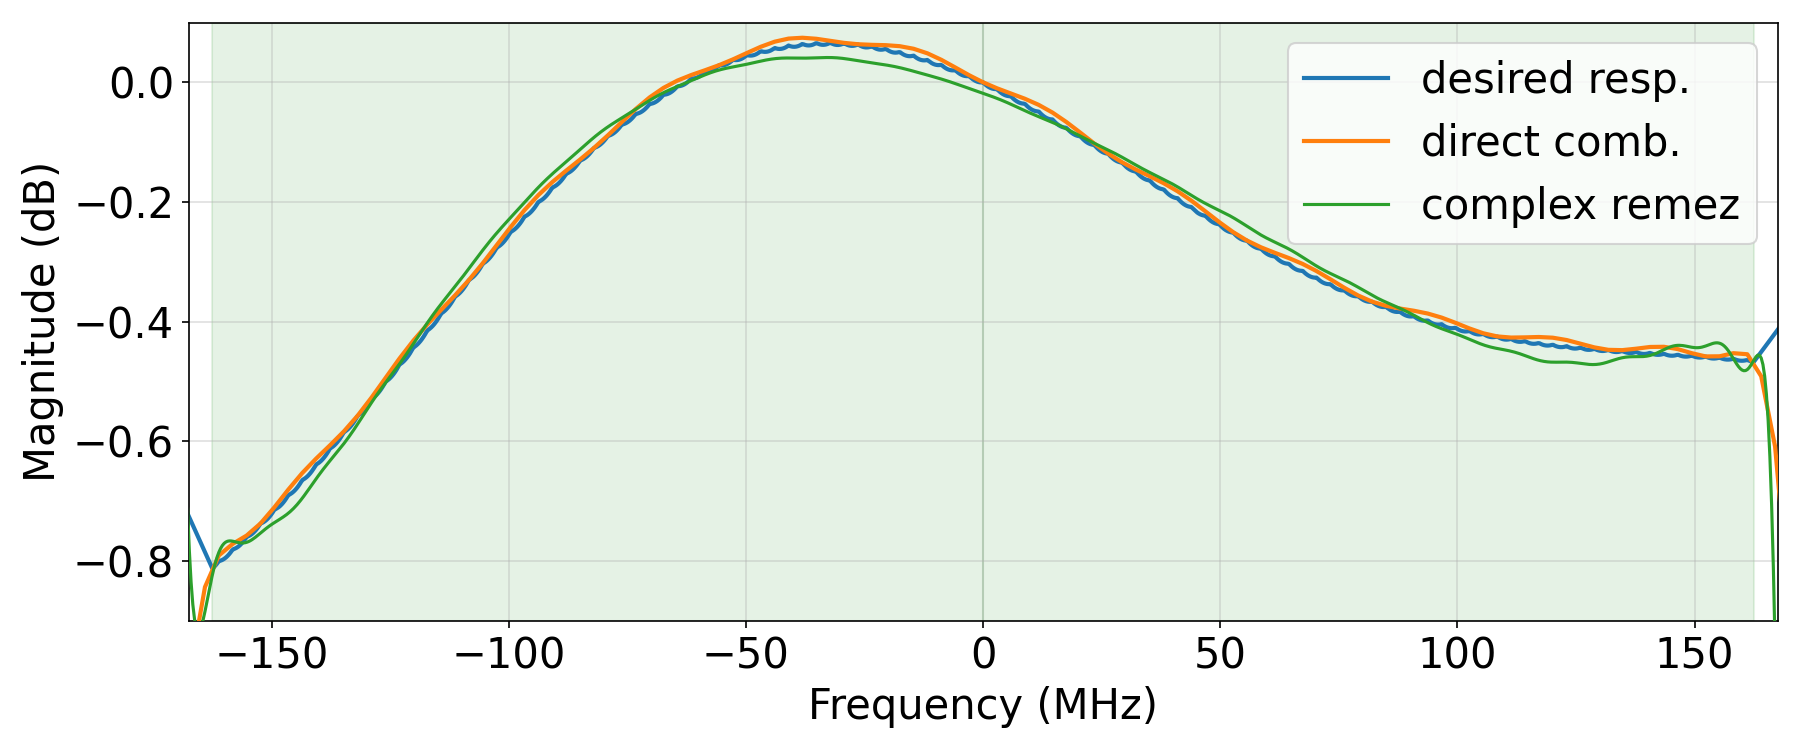
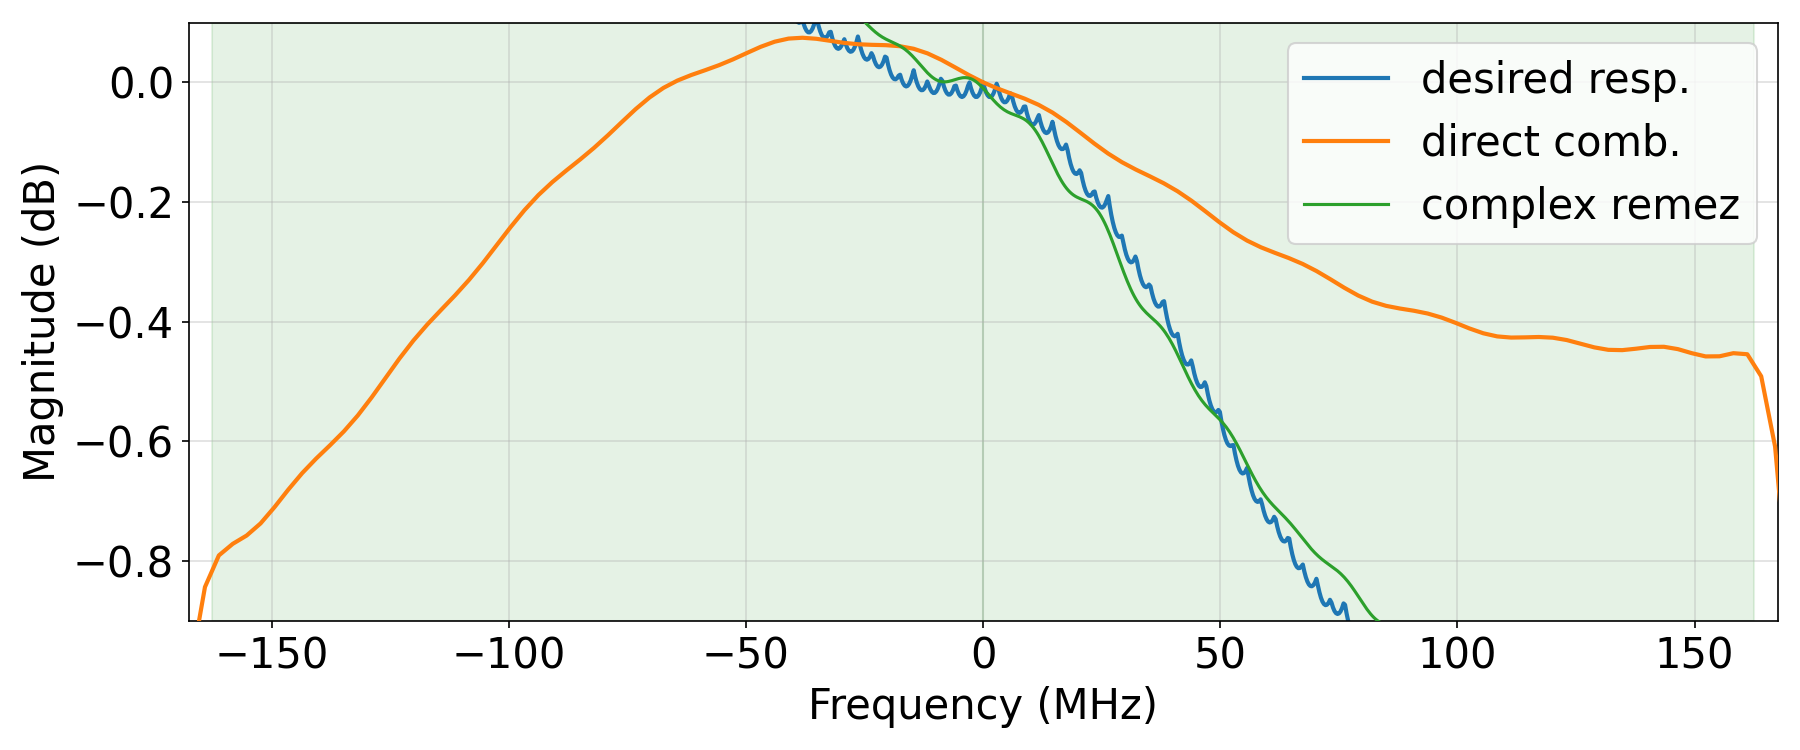
Train TRx meas. result by complex Remez algo.

diff --git a/trx_board_meas/plot.py b/trx_board_meas/plot.py
@@ -5,7 +5,7 @@ import plotly.express as px
 import plotly.graph_objs as go
 from plotly.subplots import make_subplots
 
-from s2p import _DATA_DIR, _FIGURE_DIR, _load_decimated
+from s2p import _DATA_DIR, _FIGURE_DIR, _FREQ_RESP_DIR, _load_decimated, load_freq_resp, save_freq_resp
 
 _COLORS = px.colors.qualitative.Plotly
 
@@ -19,7 +19,8 @@ def _plot(files: list, out_name: str):
     _FIGURE_DIR.mkdir(exist_ok=True)
 
     fig = make_subplots(
-        rows=2, cols=1,
+        rows=2,
+        cols=1,
         vertical_spacing=0.08,
     )
 
@@ -29,19 +30,34 @@ def _plot(files: list, out_name: str):
         freq, gain, phase = _load_decimated(path)
 
         fig.add_trace(
-            go.Scatter(x=freq, y=gain, name=path.stem, legendgroup=group,
-                       line=dict(color=color)),
-            row=1, col=1,
+            go.Scatter(
+                x=freq,
+                y=gain,
+                name=path.stem,
+                legendgroup=group,
+                line=dict(color=color),
+            ),
+            row=1,
+            col=1,
         )
         fig.add_trace(
-            go.Scatter(x=freq, y=phase, name=path.stem, legendgroup=group,
-                       showlegend=False, line=dict(color=color)),
-            row=2, col=1,
+            go.Scatter(
+                x=freq,
+                y=phase,
+                name=path.stem,
+                legendgroup=group,
+                showlegend=False,
+                line=dict(color=color),
+            ),
+            row=2,
+            col=1,
         )
 
     for x_val in (9.65 - 0.325, 9.65 + 0.325):
         for row in (1, 2):
-            fig.add_vline(x=x_val, line=dict(dash="dash", color="gray", width=1), row=row, col=1)
+            fig.add_vline(
+                x=x_val, line=dict(dash="dash", color="gray", width=1), row=row, col=1
+            )
 
     fig.update_xaxes(title_text="Frequency (GHz)")
     fig.update_yaxes(title_text="Gain (dB)", row=1, col=1)
@@ -53,6 +69,55 @@ def _plot(files: list, out_name: str):
     )
 
     out = _FIGURE_DIR / out_name
+    fig.write_html(out)
+    print(f"saved → {out}")
+
+
+def plot_freq_resp(path=None, stem: str = None, out_name: str = None):
+    """Load a .npy frequency response file and plot magnitude (dB) and phase (deg).
+
+    Provide either a full `path` or a `stem` (looked up in _FREQ_RESP_DIR).
+    """
+    if path is None:
+        if stem is None:
+            raise ValueError("Provide either path or stem")
+        path = _FREQ_RESP_DIR / f"{stem}.npy"
+    path = Path(path)
+
+    freq, s_complex = load_freq_resp(path)
+    magnitude_db = 20 * np.log10(np.abs(s_complex))
+    phase_deg = np.rad2deg(np.unwrap(np.angle(s_complex)))
+
+    fig = make_subplots(rows=2, cols=1, vertical_spacing=0.08)
+    color = _COLORS[0]
+
+    fig.add_trace(
+        go.Scatter(x=freq, y=magnitude_db, name=path.stem, line=dict(color=color)),
+        row=1,
+        col=1,
+    )
+    fig.add_trace(
+        go.Scatter(
+            x=freq,
+            y=phase_deg,
+            name=path.stem,
+            showlegend=False,
+            line=dict(color=color),
+        ),
+        row=2,
+        col=1,
+    )
+
+    fig.update_xaxes(title_text="Frequency (GHz)")
+    fig.update_yaxes(title_text="Magnitude (dB)", row=1, col=1)
+    fig.update_yaxes(title_text="Phase (deg)", row=2, col=1)
+    fig.update_layout(
+        font=dict(size=20),
+        margin=dict(l=80, r=20, t=60, b=60),
+    )
+
+    _FIGURE_DIR.mkdir(exist_ok=True)
+    out = _FIGURE_DIR / (out_name or f"{path.stem}_freq_resp.html")
     fig.write_html(out)
     print(f"saved → {out}")
 
@@ -69,12 +134,14 @@ def plot_rx_srx():
 
 def print_ripple(f_min: float = 9.325, f_max: float = 9.975):
     files = (
-        sorted(_DATA_DIR.glob("tx_*.s2p")) + sorted(_DATA_DIR.glob("stx_*.s2p")) +
-        sorted(_DATA_DIR.glob("rx_*.s2p")) + sorted(_DATA_DIR.glob("srx_*.s2p"))
+        sorted(_DATA_DIR.glob("tx_*.s2p"))
+        + sorted(_DATA_DIR.glob("stx_*.s2p"))
+        + sorted(_DATA_DIR.glob("rx_*.s2p"))
+        + sorted(_DATA_DIR.glob("srx_*.s2p"))
     )
     print(f"\nIn-band gain ripple ({f_min}–{f_max} GHz):")
     print(f"  {'File':<20} {'Max (dB)':>10} {'Min (dB)':>10} {'Ripple (dB)':>12}")
-    print(f"  {'-'*54}")
+    print(f"  {'-' * 54}")
     max_ripple, max_name = 0.0, ""
     for path in files:
         freq, gain, _ = _load_decimated(path)
@@ -85,7 +152,7 @@ def print_ripple(f_min: float = 9.325, f_max: float = 9.975):
         print(f"  {path.stem:<20} {g.max():>10.3f} {g.min():>10.3f} {ripple:>12.3f}")
         if ripple > max_ripple:
             max_ripple, max_name = ripple, path.stem
-    print(f"  {'-'*54}")
+    print(f"  {'-' * 54}")
     print(f"  Largest ripple: {max_name} ({max_ripple:.3f} dB)")
 
 
@@ -93,6 +160,8 @@ def main():
     plot_tx_stx()
     plot_rx_srx()
     print_ripple()
+    save_freq_resp("rx_ch1_h3")
+    plot_freq_resp(stem="rx_ch1_h3")
 
 
 if __name__ == "__main__":

diff --git a/trx_board_meas/s2p.py b/trx_board_meas/s2p.py
@@ -1,10 +1,12 @@
 from pathlib import Path
 
 import numpy as np
+from scipy.interpolate import interp1d
 from scipy.signal import savgol_filter
 
 _DATA_DIR = Path(__file__).parent / "data"
 _FIGURE_DIR = Path(__file__).parent / "figure"
+_FREQ_RESP_DIR = Path(__file__).parent / "freq_resp"
 
 # Touchstone S DB interleaved columns: S11(1,2) S21(3,4) S12(5,6) S22(7,8)
 _S21 = (3, 4)
@@ -35,9 +37,8 @@ def fcx_read_s2p(
     magnitude = 10 ** (gain_db / 20)
     phase_rad = np.deg2rad(phase_deg)
 
-    p = np.polyfit(frequencies, np.unwrap(phase_rad), 1)
-    phase_rad = np.unwrap(phase_rad) - np.polyval(p, frequencies)
-    phase_deg = np.rad2deg(np.unwrap(phase_rad))
+    phase_rad = np.unwrap(phase_rad)
+    phase_deg = np.rad2deg(phase_rad)
     s_complex = magnitude * np.exp(1j * phase_rad)
 
     eps = 1e-12
@@ -58,6 +59,55 @@ def fcx_read_s2p(
         W,
         W_smooth,
     )
+
+
+def save_freq_resp(stem: str, out_dir: Path = None, **kwargs) -> Path:
+    """Load an S2P file by stem and save the complex frequency response as .npy.
+
+    The saved array has shape (2, N) complex128:
+      row 0 — frequencies in GHz (real part only)
+      row 1 — complex S21 (magnitude * exp(j*phase))
+    """
+    path = _DATA_DIR / f"{stem}.s2p"
+    freq, _, _, s_complex, _, _ = fcx_read_s2p(str(path), **kwargs)
+    ref_idx = np.argmin(np.abs(freq - 9.65))
+    s_complex = s_complex / np.abs(s_complex[ref_idx])
+    out_dir = Path(out_dir) if out_dir is not None else _FREQ_RESP_DIR
+    out_dir.mkdir(exist_ok=True)
+    out = out_dir / f"{stem}.npy"
+    np.save(out, np.array([freq.astype(complex), s_complex]))
+    return out
+
+
+def load_freq_resp(path) -> tuple:
+    """Load a .npy frequency response file.
+
+    Returns: frequencies (GHz, float), s_complex (complex128)
+    """
+    data = np.load(path)
+    return data[0].real, data[1]
+
+
+def load_freq_resp_as_fft(path, n_fft: int = 256, fs_mhz: float = 750.0, fc_ghz: float = 9.65) -> np.ndarray:
+    """Load a .npy freq response and return an n_fft-bin complex array in FFT bin order.
+
+    Maps measurement frequencies (GHz) to digital rad/sample centered at fc_ghz,
+    then interpolates onto the n_fft FFT bin grid. Bins outside the measurement
+    range are filled with the nearest edge value.
+    """
+    freq_ghz, s_complex = load_freq_resp(path)
+    freq_rad = (freq_ghz - fc_ghz) * 1000.0 / fs_mhz * 2 * np.pi
+
+    order = np.argsort(freq_rad)
+    sf, ss = freq_rad[order], s_complex[order]
+
+    re_fn = interp1d(sf, ss.real, kind="linear", bounds_error=False,
+                     fill_value=(ss.real[0], ss.real[-1]))
+    im_fn = interp1d(sf, ss.imag, kind="linear", bounds_error=False,
+                     fill_value=(ss.imag[0], ss.imag[-1]))
+
+    bin_freqs_rad = 2 * np.pi * np.fft.fftfreq(n_fft)
+    return re_fn(bin_freqs_rad) + 1j * im_fn(bin_freqs_rad)
 
 
 def _col_indices(stem: str):

diff --git a/gen_rx_filter/run_eqz_lowpass_remez.py b/gen_rx_filter/run_eqz_lowpass_remez.py
@@ -59,8 +59,10 @@ _HERE = os.path.dirname(os.path.abspath(__file__))
 _ROOT = os.path.dirname(_HERE)
 sys.path.insert(0, _ROOT)
 sys.path.insert(0, _HERE)
+sys.path.insert(0, os.path.join(_ROOT, "trx_board_meas"))
 
 from gen_rx_filter import gen_eqz_freq_resp, DistortedSig
+from s2p import load_freq_resp_as_fft
 from gen_aaf_coef import compute_responses as compute_aaf_responses
 from design_fir_cvxpy import (
     build_frequency_matrix,
@@ -473,6 +475,8 @@ def design_eqz_lowpass_remez(
     n_grid: int = 512,
     out_dir: str = "gen_rx_filter/figure/eqz_lowpass_remez",
     verbose: bool = False,
+    eqz_resp_path: Optional[str] = None,
+    use_transition_band: bool = True,
 ) -> np.ndarray:
     """Design a complex lowpass FIR matched to the UCDC equalizer response.
 
@@ -501,7 +505,10 @@ def design_eqz_lowpass_remez(
     Returns:
         Designed complex tap vector h of shape (N,).
     """
-    eqz_resp = gen_eqz_freq_resp(sig=DistortedSig.UCDC, n_taps=4)
+    if eqz_resp_path is not None:
+        eqz_resp = load_freq_resp_as_fft(eqz_resp_path, n_fft=256, fs_mhz=fs_mhz)
+    else:
+        eqz_resp = gen_eqz_freq_resp(sig=DistortedSig.UCDC, n_taps=4)
     dc_gain = eqz_resp[0]
     eqz_resp = eqz_resp / dc_gain
 
@@ -521,16 +528,22 @@ def design_eqz_lowpass_remez(
     print(f"  fs          = {fs_mhz} MHz")
     print(f"  Passband    = ±{f_pass_mhz} MHz  (±{pb_norm:.4f} × fs)")
     print(f"  Stopband    ≥  {f_stop_mhz} MHz  ( {sb_norm:.4f} × fs)")
-    print("  Desired     = eqz_resp (UCDC, n_taps=4), 256-bin FFT, DC-normalised")
+    if eqz_resp_path is not None:
+        print(f"  Desired     = {eqz_resp_path}, 256-bin FFT, DC-normalised")
+    else:
+        print("  Desired     = eqz_resp (UCDC, n_taps=4), 256-bin FFT, DC-normalised")
     print(
         f"  DC gain removed: |{np.abs(dc_gain):.6f}|  ∠{np.degrees(np.angle(dc_gain)):.2f}°"
     )
     print(f"  delta_p     = {delta_p}  (passband),  delta_s = {delta_s}  (stopband)")
     print(f"  sb_weight   = delta_p/delta_s = {sb_weight:.4f}")
-    print(
-        f"  transition  = cosine taper  [{20*np.log10(mag_start+1e-12):.2f} dB → {20*np.log10(delta_s+1e-12):.2f} dB]"
-        f"  gap={tb_gap_mhz} MHz  ({len(tb_freqs)} pts)"
-    )
+    if use_transition_band:
+        print(
+            f"  transition  = cosine taper  [{20*np.log10(mag_start+1e-12):.2f} dB → {20*np.log10(delta_s+1e-12):.2f} dB]"
+            f"  gap={tb_gap_mhz} MHz  ({len(tb_freqs)} pts)"
+        )
+    else:
+        print("  transition  = disabled")
     print(f"  max_iter    = {n_iter}")
 
     h = design_complex_fir_remez(
@@ -539,8 +552,8 @@ def design_eqz_lowpass_remez(
         stopband_freqs=sb_freqs,
         Hd_passband=Hd_pb,
         sb_weight=sb_weight,
-        transition_freqs=tb_freqs,
-        Hd_transition=tb_desired,
+        transition_freqs=tb_freqs if use_transition_band else None,
+        Hd_transition=tb_desired if use_transition_band else None,
         tb_weight=0.05,
         n_iter=n_iter,
         verbose=verbose,
@@ -589,13 +602,13 @@ def _build_parser() -> argparse.ArgumentParser:
     p.add_argument(
         "--f-stop",
         type=float,
-        default=250.0,
+        default=210.0,
         help="Stopband start frequency in MHz",
     )
     p.add_argument(
         "--tb-gap",
         type=float,
-        default=50.0,
+        default=20.0,
         help="Gap between passband edge and TB constraint start (MHz)",
     )
     p.add_argument(
@@ -623,6 +636,20 @@ def _build_parser() -> argparse.ArgumentParser:
     p.add_argument(
         "--verbose", action="store_true", help="Print per-iteration Lawson diagnostics"
     )
+    p.add_argument(
+        "--no-transition-band",
+        action="store_true",
+        # action="store_false",
+        help="Disable transition band constraints; solver uses only passband and stopband",
+    )
+    p.add_argument(
+        "--eqz-resp-path",
+        type=str,
+        # default=None,
+        default="trx_board_meas/freq_resp/rx_ch1_h3.npy",
+        help="Path to a .npy freq response file (shape (2,N) complex128) to use as eqz_resp "
+             "instead of the default UCDC model. E.g. trx_board_meas/freq_resp/rx_ch1_h3.npy",
+    )
     return p
 
 
@@ -640,4 +667,6 @@ if __name__ == "__main__":
         n_grid=args.n_grid,
         out_dir=args.out_dir,
         verbose=args.verbose,
+        eqz_resp_path=args.eqz_resp_path,
+        use_transition_band=not args.no_transition_band,
     )

diff --git a/gen_rx_filter/document/params_remez.tex b/gen_rx_filter/document/params_remez.tex
@@ -4,7 +4,7 @@
   \midrule
   Sample rate $f_s$ & 750\,MHz (two-sided, Nyquist $= \pm375$\,MHz) \\
   Passband edge $f_p$ & $\pm162.5$\,MHz \\
-  Stopband edge $f_{stop}$ & $\pm250.0$\,MHz \\
+  Stopband edge $f_{stop}$ & $\pm210.0$\,MHz \\
   Filter taps $N$ & 63 \\
   Passband tolerance $\delta_p$ & 0.05 \\
   Stopband tolerance $\delta_s$ & 0.1 \\